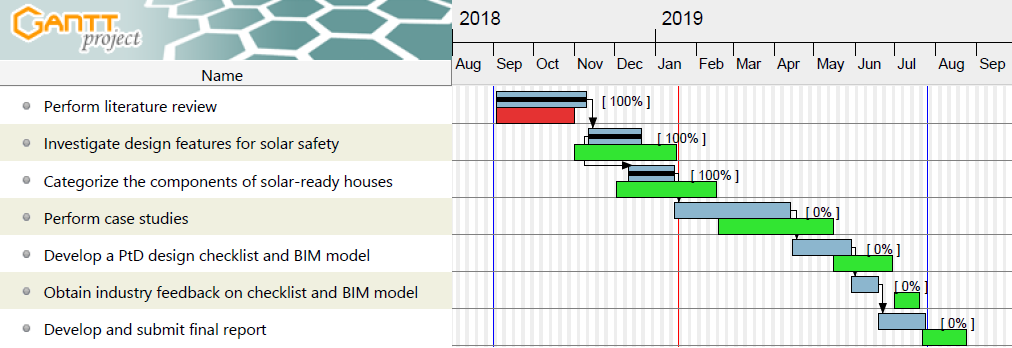
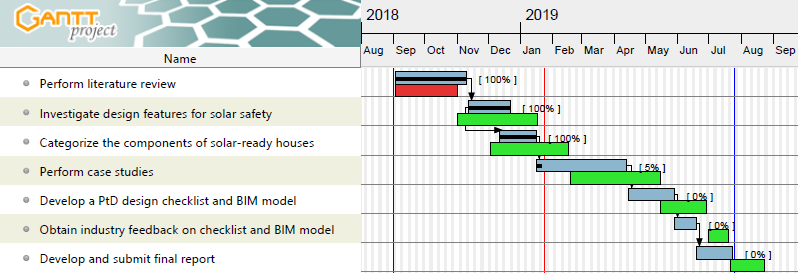
update interim report

Changed region(s): [[0.0, 0.2022, 1.0, 1.0], [0.0, 0.0, 1.0, 0.2022], [0.0, 0.9242, 0.2707, 0.9819]]

diff --git a/docs/interim.md b/docs/interim.md
@@ -1,8 +1,7 @@
 ---
 title: Prevention through Design (PtD) to Make Solar-Ready Houses Safe for Solar Workers
-  (CPWR Interim Report)
 author: "Hyun Woo Lee, John Gambatese, Yohan Min"
-date: "January 17, 2019"
+date: "January 22, 2019"
 output:
   html_document:
     df_print: paged
@@ -46,46 +45,45 @@ pre { /* Code block - determines code spacing between lines */
     font-size: 14px;
 }
 </style>
+
 # Research Objectives
 
-The overall objectives of the study is to develop knowledge and resources that support the application of prevent through design (PtD) to the design of new solar-ready houses. The study will provide evidence that (1) PtD can improve solar worker safety by proactively eliminating safety hazards and mitigating risk; and (2) designers can proactively get involved in promoting PtD for solar-ready houses.
+The overall objective of the study is to develop knowledge and resources that support the application of prevent through design (PtD) to the design of new solar-ready houses. The study will provide evidence that (1) PtD can improve solar worker safety by proactively eliminating safety hazards and mitigating risk; and (2) designers can proactively get involved in promoting PtD for solar-ready houses.
 
-The specific aims of this study are to: (1) investigate design features that support the application of PtD to the design of solar-ready houses by identifying features that either eliminate or create safety risks; (2) categorize components of solar-ready houses that affect safety risk; (3) analyze the identified design features and components through case studies; and (4) develop a PtD design checklist and building information modeling (BIM) model that can be used for making new solar-ready houses safe for solar workers. The study targets solar contractors and their safety, specifically those who work in small businesses. Successful completion of the study will result in the creation of a PtD checklist and procedure which provide solar designers the ability to effectively implement PtD for solar systems.
+The specific aims of this study are to: (1) investigate design features that support the application of PtD to the design of solar-ready houses by identifying features that either eliminate or create safety risks; (2) categorize components of solar-ready houses that affect safety risk; (3) analyze the identified design features and components through case studies; and (4) develop a PtD design checklist and building information modeling (BIM) model that can be used for making new solar-ready houses safe for solar workers. The study targets solar contractors and their safety, specifically those who work in small businesses. Successful completion of the study will result in the creation of a PtD checklist and procedure which provide house designers the ability to effectively implement PtD for solar-ready houses.
 
 Using mixed methods, the specific tasks of the research are as follows:
 
 1. Perform literature review
-2. Investigate design features for solar safety.
-3. Categorize the components of solar-ready houses.
-4. Perform case studies of existing solar-ready houses.
-5. Develop a PtD design checklist and BIM model for new solar-ready houses.
-6. Obtain industry feedback on the checklist and model.
+2. Investigate design features for solar safety
+3. Categorize the components of solar-ready houses
+4. Perform case studies of existing solar-ready houses
+5. Develop a PtD design checklist and BIM model for new solar-ready houses
+6. Obtain industry feedback on the checklist and model
 7. Develop and submit a final report
 
 # Accomplishments
 
-1. Extensive literuature reviews including the previous CPWR study (Lee at al. 2017) were conducted to indentify (1) the design and construction of solar-ready houses and (2) the safety hazards and risk mitigation measures for solar systems. 7 design related components identified in the previous study are roofing material, roof slope, roof accessories, panel layout, fall protection system, lifting method, and electric system with respect to the 3 main safety hazards, which are falling, tripping and being struck by objects. They are prevalent specifically in working on rooftop due to the factors including, but not limited to stability of the roof, placement of the ladder, weather conditions, holes in the roof, proximity of the edges, and pitch of the roof, which will be considered for the next steps of development of desirable design features and checklist of solar-ready houses.
+1. An extensive literature review including the previous CPWR study (Lee at al. 2017) was conducted to identify (1) the design components and construction operations of solar-ready houses, and (2) the safety hazards and risk mitigation measures for solar systems. Seven design-related components identified in the previous study as being impactful to safety are: roofing material, roof slope, roof accessories, panel layout, fall protection system, lifting method, and electric system. These components were identified with respect to the three main safety hazards, which are falling, tripping, and being struck by objects. The hazards are prevalent specifically when working on a rooftop due to a variety of factors including, but not limited to, stability of the roof, placement of the ladder, weather conditions, openings in the roof, proximity of the roof edges, and pitch of the roof. These factors will be considered for the next steps in the development of desirable design features and a design checklist of solar-ready houses.
 
-2. Industry interviews were performed to capture specific features to improve the safety features of solar installation. These industry interviewees were identified through the previous CPWR study and researcher's connection all located in the Pacific Northwest. The researchers tried to select the professionals diversely to capture the broad perspectives from field workers to the company princials. Total interviewees are 12 professionals based on different levels of job types consisting of 1 sustainability consultant, 3 solar contractors, 1 general contractor, 2 electric professionals and 5 designers (including principal).
+2. A series of industry interviews were performed to capture specific features to improve the safety of solar installations. The interviewees were identified through the previous CPWR study and the research team's connections with industry, all located in the Pacific Northwest. The team tried to select a diverse set of the professionals to participate in the interviews to capture broad perspectives from the field workers to the company principals. A total of 12 industry professionals were interviewed. The interviewees included one sustainability consultant, three solar contractors, one general contractor, two electric professionals, and five designers (including principal).
 
-3. A list of building components applying desirable design features was developed through email surveys with the industry professionals who participated the previous interviews. The survey evaluated the desirable design features for the related buliding components. The evaluation criteria is (1) relevance to safety hazard risks, (2) applicability, and (3) cost-effectiveness.
+3. A list of building components applying desirable design features was identified through a series of interviews and has been being developed currently with an online survey to professionals who participated the previous interviews. The survey evaluates the desirable design features for the related building components. The evaluation criteria are: (1) relevance to safety hazard risks, (2) applicability, and (3) cost-effectiveness.
 
 
 # Deviations/Issues in the Research Methodology
 
-Progress of the research project is ahead of the planned schedule while it is expected to take time to find the case studies for this research. Below shows the progress in detail indicating activities delayed in read and ahead in green. 
+Progress on the research project is slightly ahead of the planned schedule and the case study process has started. The figure below shows the progress in detail indicating activities delayed in red and activities ahead of schedule in green.
 
 ![Research Progress Timeline](progress.png)
 
-Survey through e-mail is about to be performed to verify the design preference for each evaluation criteria (i.e., safety, applicability, and cost-effectiveness) while some of the preferred design characteristics were verified during the interviews. 
+An online survey is being performed to develope the design features preferred by industry practitioners based on each evaluation criteria (i.e., safety, applicability, and cost-effectiveness). Note that some of the preferred design features were verified during the interviews.
 
 # Interim Results
-Through the interviews, it is identified that most hazardous activities are installation of the safety equipments such as tie-off and anchor points and carrying solar panels to the roof. Typical work processes of solar system installation start with installing safety equipments followed by installation of mechancial and electrical balance of system (BOS) such as mounting racks and overcurrent protection device (OCPD). Carrying and positioning solar panels are next followed by installation of final accessories. Hence, PtD measures would help to address these hazardous activities more by preventing them from occurrence through design improvement.
+The interview results revealed that most safety hazards and risks happen during the installation of the safety equipment such as tie-off and anchor points and during the process of carrying solar panels to the roof. Typical solar system installation starts with installing safety equipment followed by installation of mechanical and electrical balance of system (BOS) such as mounting racks and an overcurrent protection device (OCPD). Carrying and positioning solar panels are the next step followed by installation of final accessories. Hence, the application of PtD to the design features would help to address these hazardous activities effectively during the design process.
 
-In addition, interviews verified the benefits of solar-ready scope in terms of cost-effectiveness, productivity, occupational safety, asset marketability and green adoption. The solar-ready scope mostly lessens the soft cost by reducing it related to system permitting, pre-construction engineering, marketing, and installation labor time at risk of being on the roof. It also increases the installation productivity leading to higher occupational safety by promoting easier access, simple layout, no tripping hazards, and no openings. Interviews found that solar-ready scope enhances the value of the houses as most solar-ready projects have been marketed with the solar-ready features stressed out.
+In addition, the interview results reported the benefits of solar-ready design in terms of cost-effectiveness, productivity, occupational safety, asset marketability, and green adoption. The solar-ready design can largely contribute to lowering the soft cost of solar systems by reducing time taken for system permitting, pre-construction engineering, marketing, and installation (when workers are at risk of being on the roof). It also helps increase the installation productivity, leading to improving occupational safety by promoting easy access, simple layout, fewer tripping hazards, and fewer openings. Some interviewees pointed out that the solar-ready design can enhance the value of the solar-ready houses due to the marketing of the solar-ready features.
 
-There were some concerns about the solar-ready scope that the residential solar federal tax credit is not applied to the solar-ready scope even though there is a rare case that provided incentive to builders (e.g., Oregon energy trust EPS). While it seems there is no more incentive to builders for applying solar-ready scope in the new construction, the trend is that solar-ready scope becomes required by the local residential building or energy codes.
+During the interviews, there were some concerns raised about solar-ready design. Specifically there were concerns that most federal tax credits for residential solar are currently not applicable to solar-ready design except for a rare case reported in Oregon energy trust EPS that provides incentive to contractors. While there does not seem to be any more incentive available for contractors in terms of applying solar-ready design in new construction, the general trend in the industry is that solar-ready design becomes required by the local residential building or energy codes more and more over time.
 
-Design features related to buliding components and solar system features were verified for solar-ready houses: solar zone features, installatoin features and solar system features. The solar zone is a designated area for the future installation of solar panels on the roof or overhang without interruption of shades, penetrations, and obstrcutions. Solar zone features are devided into solar zone area, solar zone pitch and solar zone material. Designers could consider the solar zone features different from the typical rooftop as those areas not included in solar zone have nothing to do with the design limits for solar zone. Installation features determine how solar workers perform the installation in terms of fall protection, access to the roof and electrical configuration, which indentifies the conduit routes and reserved spaces for electrical equipments of the solar system depending on the inverter type. In case there is a time gap between solar scope in the new construction and the solar system installation, solar system features include electrical configuration for interter types in addtion to the mounting types such as rack and ballast.
-
-
+PtD design features related to building components and solar system features were verified and categorized for solar-ready houses, including solar zone features, installation features and solar system features. A solar zone refers to a designated area for the future installation of solar panels on the roof or overhang without interruption due to shade, penetrations, and obstructions. First, the solar zone features include solar zone area, solar zone pitch, and solar zone material. Designers should consider these features in terms of design constraints (e.g., rearranging obstructions such as vents, chimneys, and roof-mounted) for the application of solar zone as opposed to the typical rooftop design. Second, the installation features are about how solar workers perform their installation in terms of fall protection, access to the roof, and electrical configuration, that determines the conduit routes and reserved spaces for electrical components of the solar system depending on the inverter type. Lastly, the solar system features are intended to address a significant time gap between solar-ready design in the new construction and actual solar system installation in the future. The identified solar features include electrical configuration for inverter types and mounting types such as racking and ballast.

diff --git a/docs/energy_code.md b/docs/energy_code.md
@@ -26,6 +26,7 @@ CA requires PV installation on the new construction and solar ready for those wh
 * If townhouses, > 150 sf (IECC)
 * In general, > 250 sf (CEC)
 > Roof area > 600 sf (IECC)
+> Exclusive of setback as required by fire code
 
 ### Sub-area
 * Dimension > 5 ft
@@ -41,11 +42,11 @@ CA requires PV installation on the new construction and solar ready for those wh
 
 ## Document
 ### Loads
-* In general, information disclosure of roof dead and live load
+* Indicate the information disclosure of roof dead and live load
 * Designed with PV > 4 lb/ sq (Seattle residential code 2017)
 
 ### Interconnection
-* Location of reserved electrical BOS, conduit route information
+* Indicate the location of reserved electrical BOS, conduit route and pathway information
 
 ### Documentation
 * Provide to occupants (CEC)
